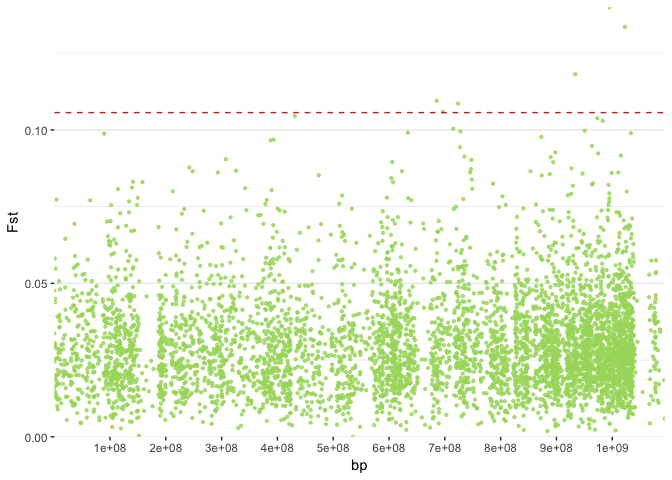
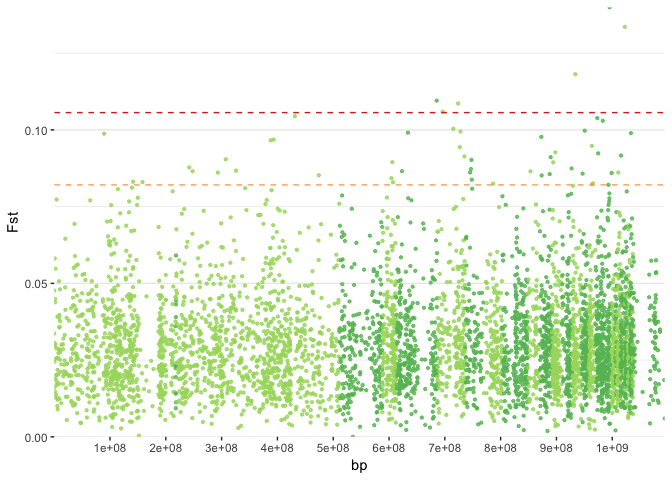
some fixes to outlier stats

diff --git a/GBS_plotting_outlier_stats.md b/GBS_plotting_outlier_stats.md
@@ -222,7 +222,7 @@ GENOME.class.split <- neutrality.stats(GENOME.class.split)
 ```
 
 ```
-## opening ff /private/var/folders/5k/7v2qdmp52_7f7krprpl16bb80000gq/T/RtmpqxiKbg/ff173e246bc0233.ff
+## opening ff /private/var/folders/5k/7v2qdmp52_7f7krprpl16bb80000gq/T/RtmpWmZ3Nu/ff96d8671bc070.ff
 ```
 
 ```
@@ -426,6 +426,7 @@ outlier_stats <- tibble(new_bins$CHROM, new_bins$newSTART, new_bins$newEND, mean
 colnames(outlier_stats) <- c("CHROM", "BIN_START", "BIN_END", "Fst", 
                              "NI_pi", "SI_pi", "dxy", "NI_Tajima", "SI_Tajima")
 outlier_stats %>% mutate(., BIN_MIDDLE=BIN_START + ((BIN_END-BIN_START)/2)) -> outlier_stats
+write.table(outlier_stats, "../selection_stats/outlier_stats.txt", row.names = F, col.names = T, quote = F, sep = "\t")
 ```
 
 Plotting Fst.
@@ -436,13 +437,14 @@ ggplot(outlier_stats, aes(x=BIN_MIDDLE, y=Fst)) +
   
   # Show all points
   geom_point( aes(color=as.factor(CHROM)), alpha=0.8, size=0.8) +
-  scale_color_manual(values = rep(c("#A6D96A"), 80)) +
+  scale_color_manual(values = rep(c("#A6D96A", "#66BD63"), 80)) +
   
   scale_y_continuous(expand = c(0, 0)) +     # remove space between plot area and x axis
   scale_x_continuous(expand = c(0, 0), breaks=seq(0, 1100000000, 100000000)) +
   
   # adding threshold line
   geom_hline(yintercept=(quantile(outlier_stats$Fst, probs = 0.999, na.rm = TRUE)), linetype="dashed", color = "#D73027") +
+  geom_hline(yintercept=(quantile(outlier_stats$Fst, probs = 0.99, na.rm = TRUE)), linetype="dashed", color = "#FDAE61") +
   labs(x = "bp", y="Fst") +
   
   # Custom theme:
@@ -589,7 +591,7 @@ ggplot(outlier_stats, aes(x=BIN_MIDDLE, y=dxy)) +
   
   # Show all points
   geom_point( aes(color=as.factor(CHROM)), alpha=0.8, size=0.8) +
-  scale_color_manual(values = rep(c("#FDAE61"), 80)) +
+  scale_color_manual(values = rep(c("#FDAE61", "#F46D43"), 80)) +
   
   scale_y_continuous(expand = c(0, 0)) +     # remove space between plot area and x axis
   scale_x_continuous(expand = c(0, 0), breaks=seq(0, 1100000000, 100000000)) +
